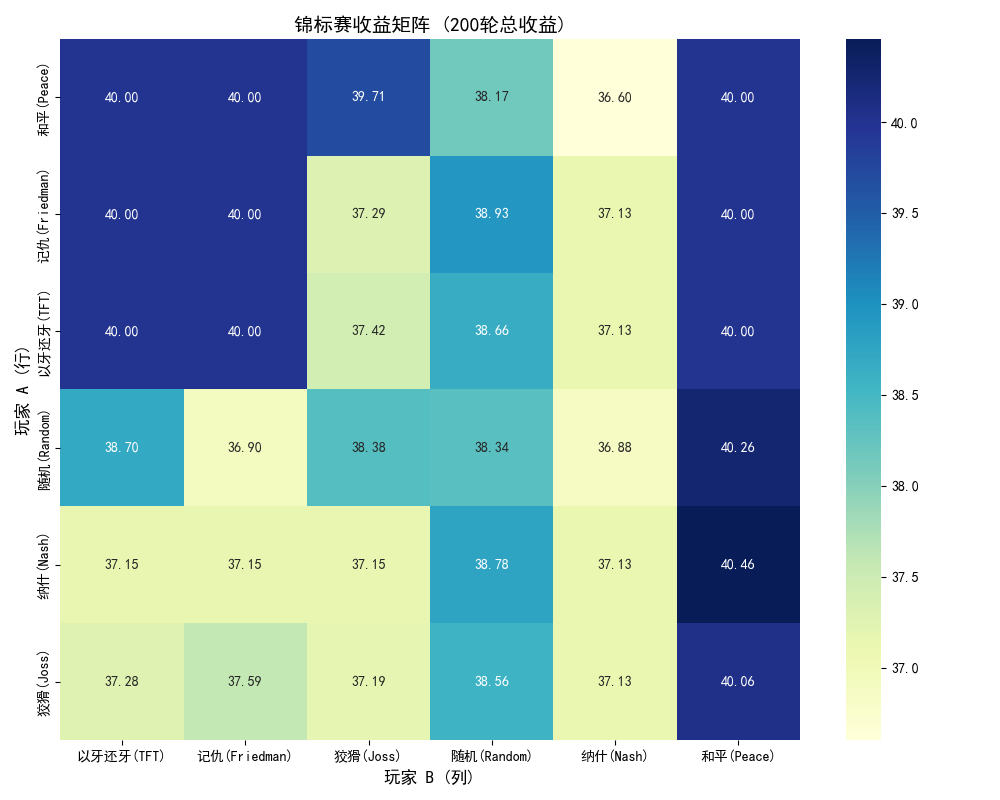
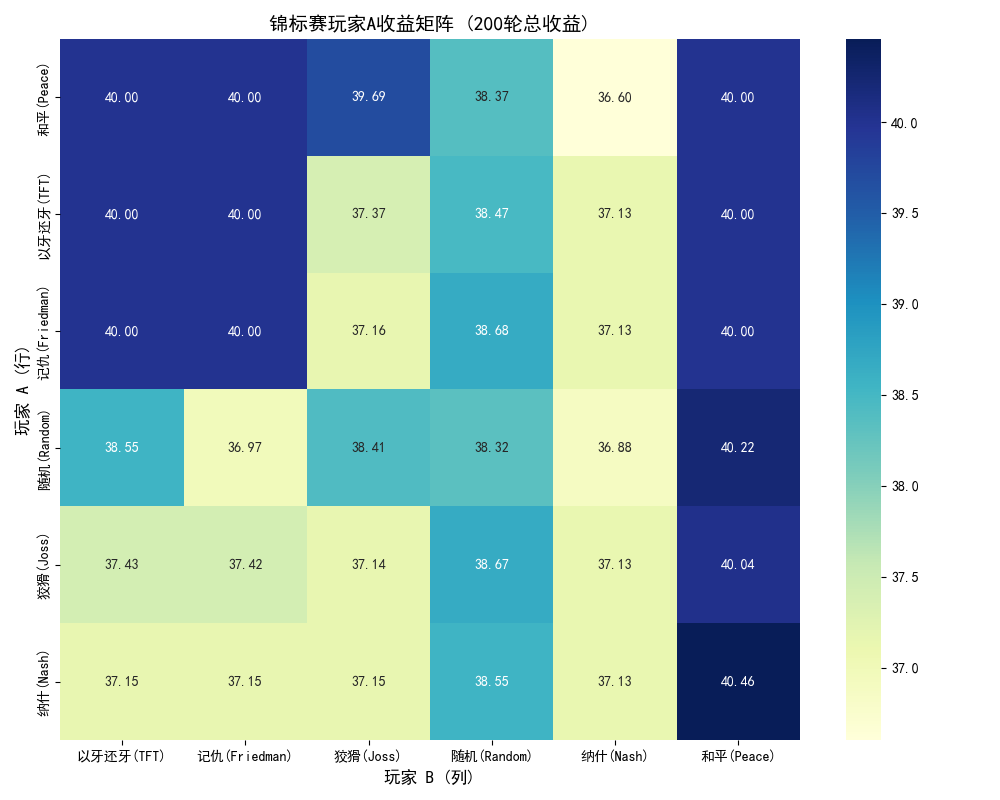
exp01 figure title modified

diff --git a/experiments/exp01_tournament.py b/experiments/exp01_tournament.py
@@ -83,7 +83,7 @@ def run_experiment():
     sns.heatmap(heatmap_data, annot=True, fmt=".2f", cmap="YlGnBu")
     
     # 标题和标签
-    plt.title('锦标赛收益矩阵 (200轮总收益)', fontsize=14)
+    plt.title('锦标赛玩家A收益矩阵 (200轮总收益)', fontsize=14)
     plt.ylabel('玩家 A (行)', fontsize=12)
     plt.xlabel('玩家 B (列)', fontsize=12)
     
